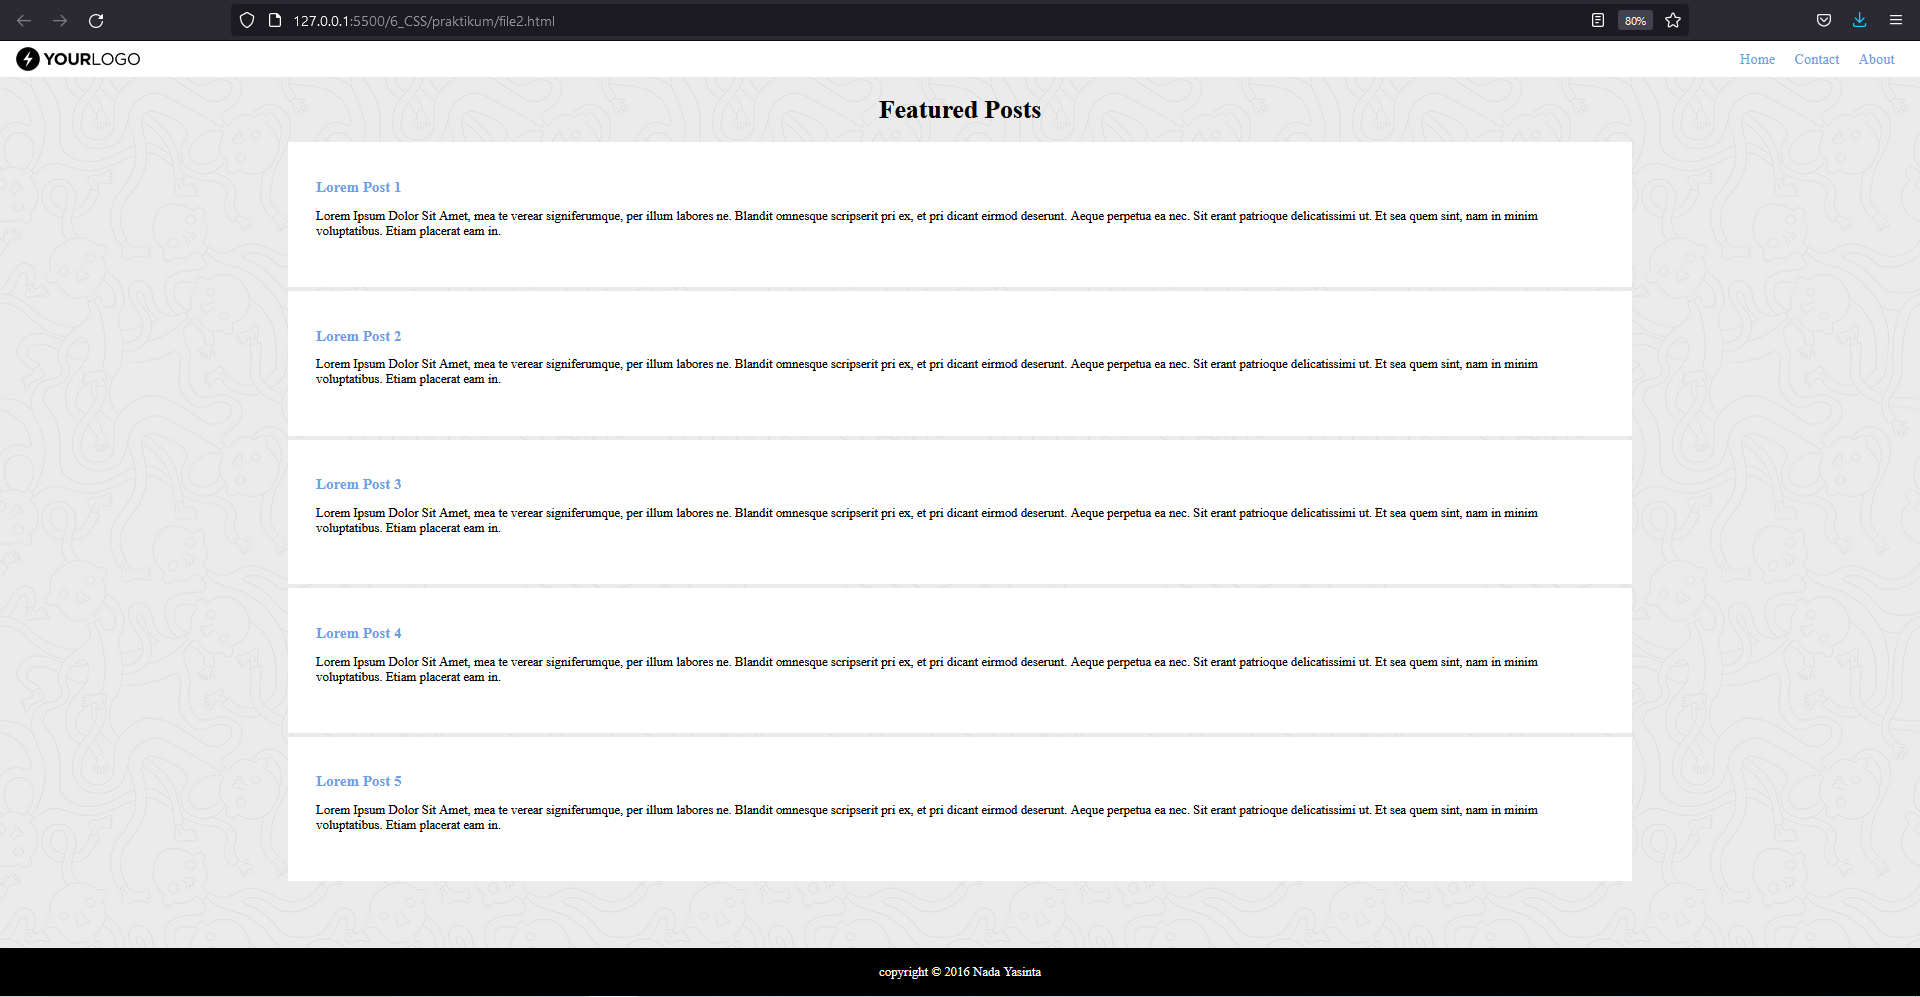
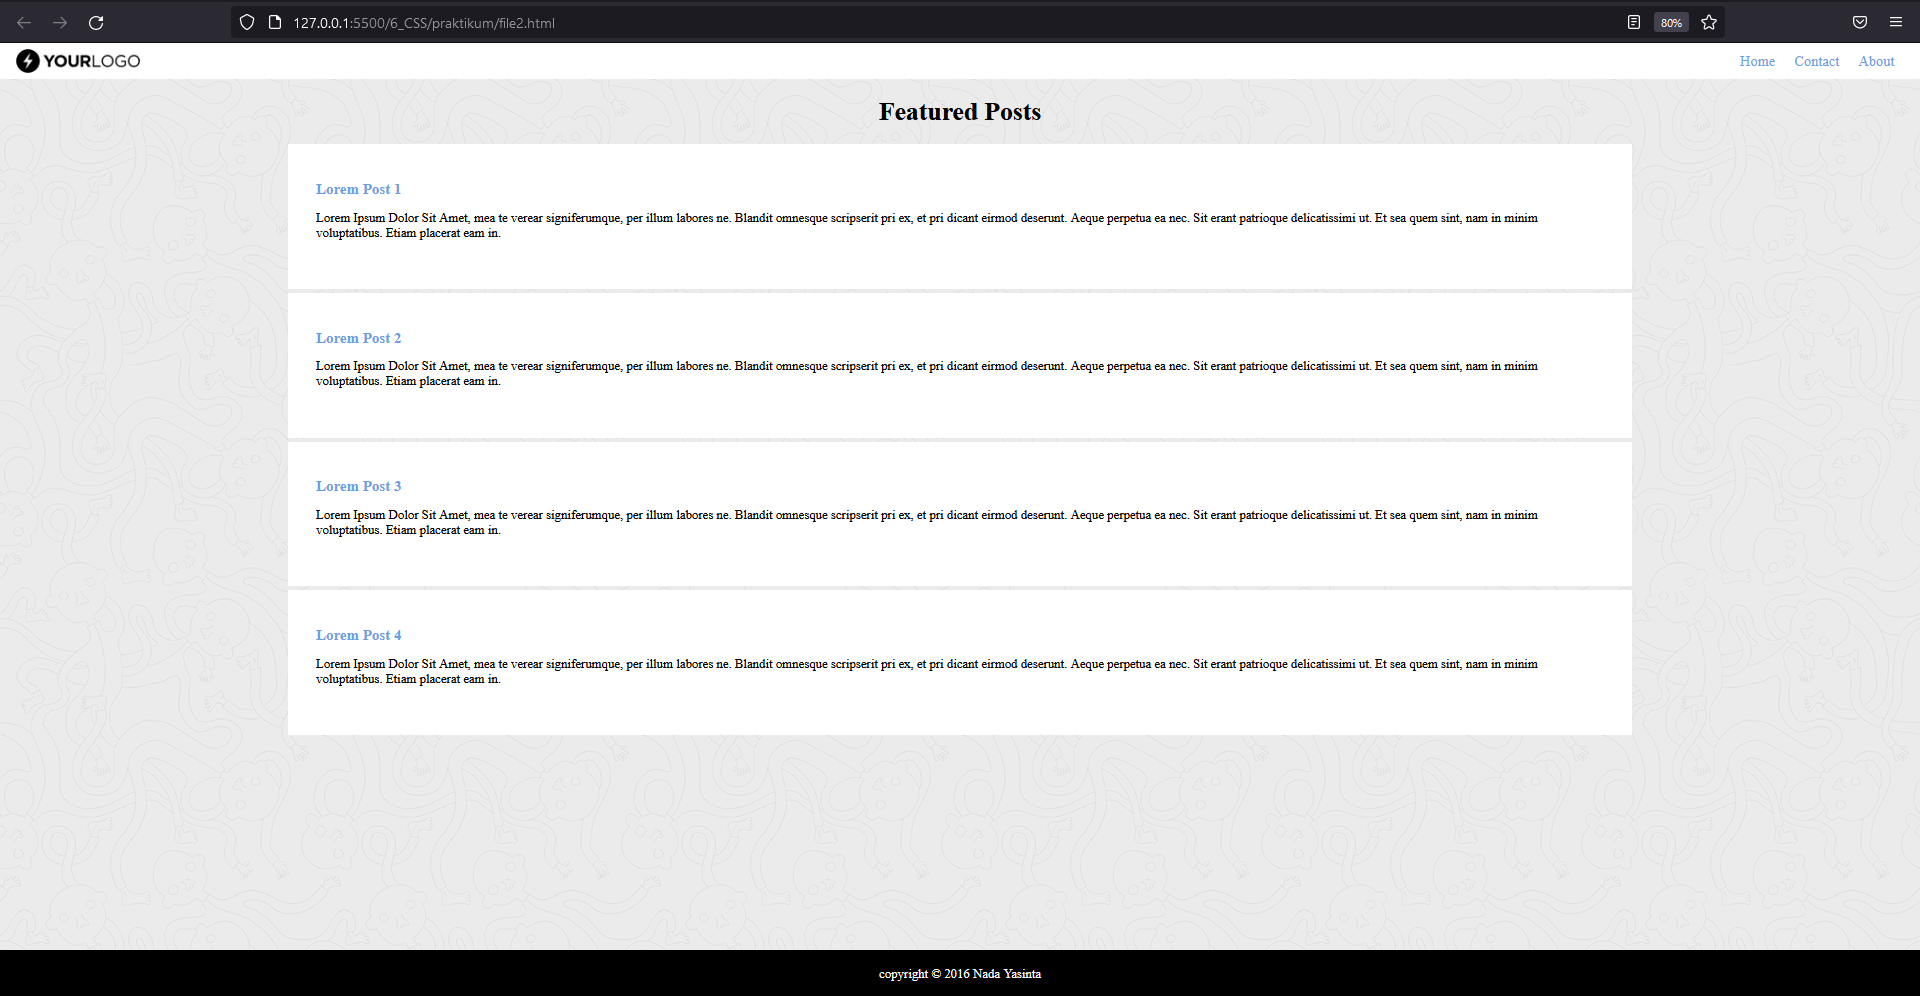
edit file 2 + style css

diff --git a/6_CSS/praktikum/file2.html b/6_CSS/praktikum/file2.html
@@ -38,11 +38,6 @@
             <p> Lorem Ipsum Dolor Sit Amet, mea te verear signiferumque, per illum labores ne. Blandit omnesque scripserit pri ex, et pri dicant eirmod deserunt. Aeque perpetua ea nec. Sit erant patrioque delicatissimi ut. Et sea quem sint, nam in minim voluptatibus.
                 Etiam placerat eam in.</p>
         </div>
-        <div id="id5">
-            <h3>Lorem Post 5</h3>
-            <p> Lorem Ipsum Dolor Sit Amet, mea te verear signiferumque, per illum labores ne. Blandit omnesque scripserit pri ex, et pri dicant eirmod deserunt. Aeque perpetua ea nec. Sit erant patrioque delicatissimi ut. Et sea quem sint, nam in minim voluptatibus.
-                Etiam placerat eam in.</p>
-        </div>
     </main>
 
     <footer class="footer">

diff --git a/6_CSS/praktikum/style.css b/6_CSS/praktikum/style.css
@@ -59,8 +59,9 @@ h3 {
 [id^=id] {
     background-color: white;
     padding: 45px 35px;
-    margin-bottom: 5px;
-    width: 70%;
+    margin: 3px auto;
+    width: 65%;
+    height: auto;
 }
 
 main {
@@ -74,7 +75,7 @@ p {
 }
 
 .footer {
-    position: fixed;
+    position: absolute;
     height: 60px;
     bottom: 0;
     width: 100%;
